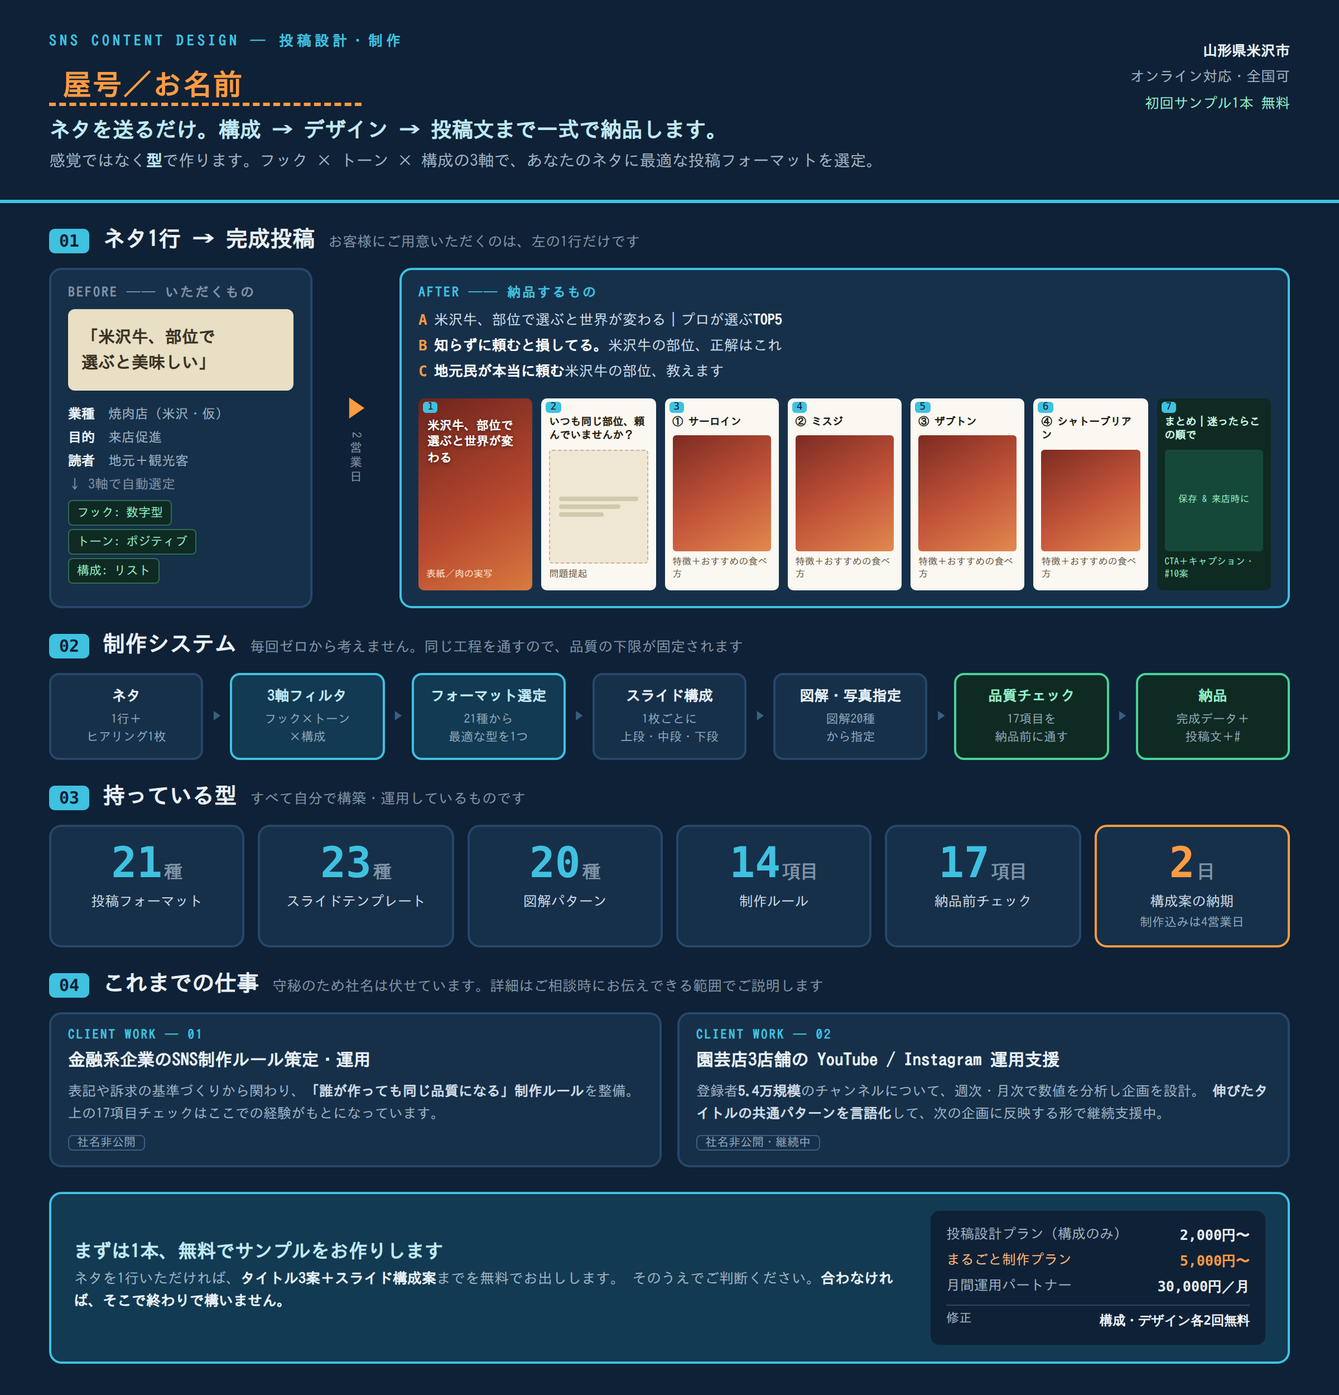
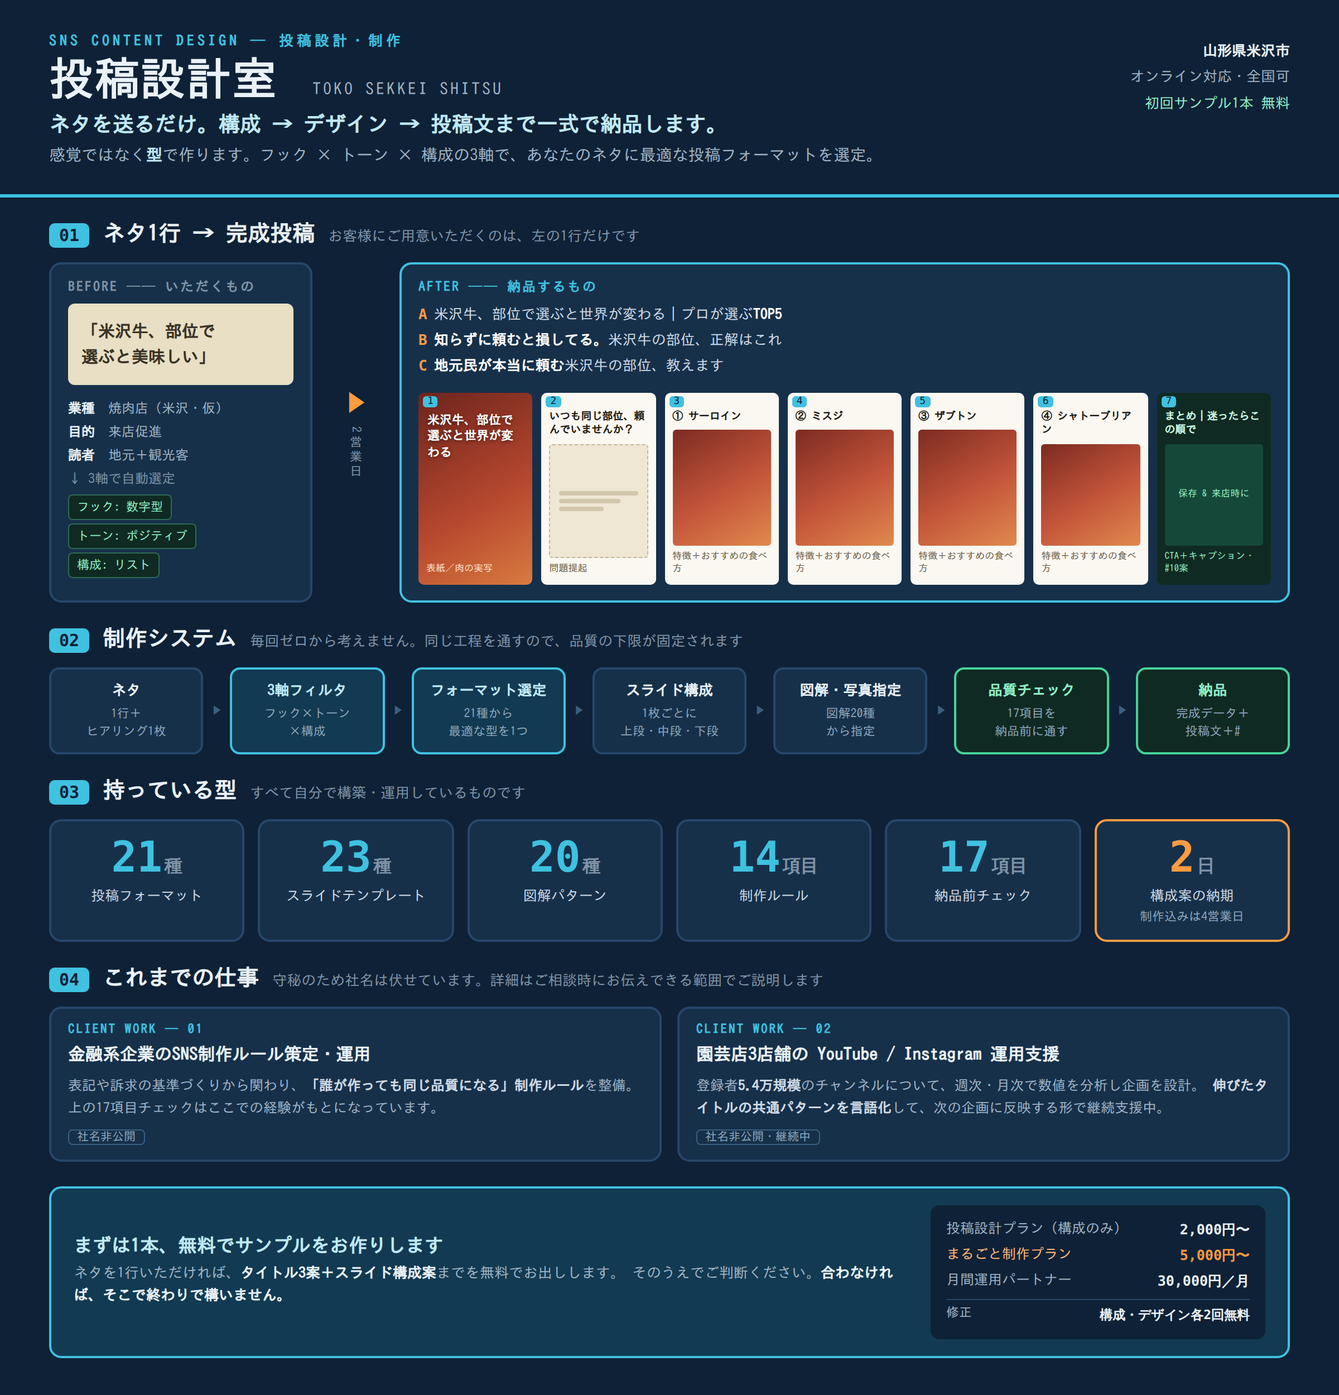
Day 34 レッスン: 屋号「投稿設計室」でポートフォリオ確定、ココナラ出品画像を書き出し
Claude-Session: https://claude.ai/code/session_014hr1ioYQ7JpKWtpWRvp1iW

diff --git a/docs/lessons/day34-出品まで残り1歩.html b/docs/lessons/day34-出品まで残り1歩.html
@@ -1,0 +1,50 @@
+<!doctype html><html lang="ja"><head><meta charset="utf-8">
+<style>
+:root{--bg:#f5f7fb;--panel:#fff;--line:#d7dee9;--navy:#14213d;--blue:#1f5fbf;--gold:#c9a227}
+*{box-sizing:border-box}body{margin:0;background:var(--bg);font-family:"IPAGothic","Noto Sans CJK JP",sans-serif;color:var(--navy);width:1280px;height:920px;padding:44px 56px}
+h1{font-size:34px;margin:0 0 6px}.sub{font-size:18px;color:#4a5670;margin-bottom:28px}
+.flow{display:flex;align-items:stretch;gap:0;margin-bottom:30px}
+.st{flex:1;background:var(--panel);border:3px solid var(--blue);border-radius:12px;padding:14px 10px;text-align:center;position:relative}
+.st .k{font-size:18px;font-weight:bold;line-height:1.3}.st .v{font-size:14px;color:#4a5670;margin-top:6px;line-height:1.4}
+.st .ok{position:absolute;top:-16px;right:-6px;background:var(--blue);color:#fff;font-size:14px;font-weight:bold;border-radius:20px;padding:3px 10px}
+.st.done .ok{background:var(--blue)}
+.st.today{border-color:var(--gold);background:#fffbe8}.st.today .ok{background:var(--gold)}
+.st.you{border-color:var(--navy);border-style:dashed;background:var(--bg)}.st.you .ok{background:var(--navy)}
+.ar{flex:0 0 26px;display:flex;align-items:center;justify-content:center;color:#9aa8bf;font-size:20px}
+.row{display:flex;gap:24px}
+.card{flex:1;background:var(--panel);border:2px solid var(--line);border-radius:14px;padding:22px 26px}
+.card h2{font-size:22px;margin:0 0 10px;padding-bottom:8px;border-bottom:3px solid var(--blue)}
+.card.g h2{border-color:var(--gold)}.card.n h2{border-color:var(--navy)}
+.card p,.card li{font-size:18px;line-height:1.55;margin:4px 0}.card ul{margin:6px 0 0 20px;padding:0}
+.big{font-size:26px;font-weight:bold;color:var(--blue)}
+.foot{margin-top:26px;background:var(--navy);color:#fff;border-radius:12px;padding:16px 24px;font-size:22px;font-weight:bold;text-align:center}
+.foot span{color:var(--gold)}
+</style></head><body>
+<h1>Day 34　受注パイプライン 8工程、残りは「貼る」の1歩だけ</h1>
+<div class="sub">Day 30 で「6/7 完成」だった棚。屋号が決まったので今日 7/8 まで進めた。残る 1 つは、私には押せない。</div>
+<div class="flow">
+  <div class="st done"><div class="ok">済</div><div class="k">出品文<br>価格設計</div><div class="v">§2・§1<br>数字を実測値に修正</div></div><div class="ar">▶</div>
+  <div class="st done"><div class="ok">済</div><div class="k">営業DM<br>お礼文</div><div class="v">§5・§6</div></div><div class="ar">▶</div>
+  <div class="st done"><div class="ok">済</div><div class="k">ヒアリング<br>フォーム</div><div class="v">1枚</div></div><div class="ar">▶</div>
+  <div class="st done"><div class="ok">済</div><div class="k">構成案<br>納品書</div><div class="v">テンプレ</div></div><div class="ar">▶</div>
+  <div class="st done"><div class="ok">Day 31</div><div class="k">ポートフォリオ</div><div class="v">既存素材だけで<br>1枚</div></div><div class="ar">▶</div>
+  <div class="st today"><div class="ok">今日</div><div class="k">屋号<br>「投稿設計室」</div><div class="v">A案で確定<br>橙の点線を消した</div></div><div class="ar">▶</div>
+  <div class="st today"><div class="ok">今日</div><div class="k">出品用画像</div><div class="v">1220×1240<br>ココナラ規格で書き出し</div></div><div class="ar">▶</div>
+  <div class="st you"><div class="ok">あなた</div><div class="k">出品画面に<br>貼る</div><div class="v">画像1枚＋文章コピペ<br>所要 5分</div></div>
+</div>
+<div class="row">
+  <div class="card n"><h2>データが言うこと</h2>
+    <p>28日止まっていたのは「屋号を決める」1問。返事が無ければAと決めてあったので、今日は<b>決めずに進んだ</b>。</p>
+    <p class="big">残った1歩は、制作でも判断でもなく「貼る」。</p>
+    <p>ここだけは Day 26 の「人間にしかできない工程」。私は画面を持っていない。</p></div>
+  <div class="card"><h2>その場で処理したこと</h2>
+    <ul><li>portfolio.html の橙の点線 →「投稿設計室」で再レンダリング</li>
+      <li>ココナラ出品画像を規格サイズで新規書き出し（素材は全部流用）</li>
+      <li>出品文の過少申告を修正: 16項目→17 ／ 20種→21</li></ul></div>
+  <div class="card g"><h2>今日の2択</h2>
+    <p><b>A.</b> 今日中に貼る（ココナラ→出品する→画像と§2をコピペ→「下書き保存」でもOK）</p>
+    <p><b>B.</b> 貼る前に私が「投稿設計室」の商標・ココナラ内・SNS ID の3チェックを済ませてから（明日）</p>
+    <p>返事が無ければ明日は <b>B</b> を済ませて、また同じ1歩を出す。</p></div>
+</div>
+<div class="foot">7/8 まで来た。最後の <span>1歩は5分</span>。完成度で止めない＝下書き保存も出荷の一歩。</div>
+</body></html>

diff --git a/business/sales/coconala-service-image.html b/business/sales/coconala-service-image.html
@@ -1,0 +1,59 @@
+<!doctype html>
+<html lang="ja"><head><meta charset="utf-8">
+<style>
+  * { margin:0; padding:0; box-sizing:border-box; }
+  html,body { width:1220px; height:1240px; }
+  body { font-family:'IPAGothic',sans-serif; background:#0f2136; color:#eaf2f8; position:relative; overflow:hidden; }
+  .band { position:absolute; left:0; right:0; top:0; height:14px; background:#3fc1e0; }
+  .wrap { padding:70px 70px 0; }
+  .who { font-size:24px; color:#3fc1e0; letter-spacing:6px; font-weight:bold; }
+  .nm { font-size:64px; font-weight:bold; margin-top:12px; letter-spacing:2px; }
+  .nm small { font-size:22px; color:#9fb3c4; font-weight:normal; letter-spacing:3px; margin-left:16px; }
+  .copy { margin-top:54px; font-size:78px; font-weight:bold; line-height:1.2; }
+  .copy .o { color:#ff9b42; }
+  .sub { margin-top:26px; font-size:36px; color:#bfe9f5; font-weight:bold; line-height:1.4; }
+  .chips { margin-top:38px; display:flex; gap:16px; }
+  .chip { background:#16304a; border:3px solid #3fc1e0; border-radius:12px; padding:14px 26px; font-size:28px; font-weight:bold; color:#bfe9f5; }
+  .chip b { color:#fff; }
+  .slides { position:absolute; left:70px; right:70px; bottom:210px; display:flex; gap:14px; }
+  .sl { flex:1; height:200px; border-radius:10px; background:#fbf8f2; position:relative; overflow:hidden; display:flex; flex-direction:column; }
+  .sl .num { position:absolute; left:8px; top:8px; font-size:16px; font-family:monospace; color:#0f2136; background:#3fc1e0; border-radius:5px; padding:1px 8px; }
+  .sl .top { padding:38px 12px 8px; font-size:17px; font-weight:bold; color:#241d12; line-height:1.35; }
+  .sl .mid { flex:1; margin:0 12px 12px; border-radius:6px; }
+  .cov { background:linear-gradient(150deg,#6e241d,#b8492f 60%,#d97b40); }
+  .cov .top { color:#fff; font-size:20px; text-shadow:0 1px 3px rgba(0,0,0,.5); }
+  .ph1 { background:linear-gradient(150deg,#7d2b22,#c4553a 55%,#e08a4e); }
+  .ph2 { background:#efe6d4; border:2px dashed #c3b697; }
+  .cta { background:#0f2a22; } .cta .top { color:#c9f7e4; } .cta .mid { background:#16483a; }
+  .ft { position:absolute; left:0; right:0; bottom:0; height:170px; background:#123a52; border-top:4px solid #3fc1e0;
+        display:flex; align-items:center; justify-content:space-between; padding:0 70px; }
+  .ft .l { font-size:38px; font-weight:bold; color:#8ff0c8; }
+  .ft .l small { display:block; font-size:22px; color:#9fb3c4; font-weight:normal; margin-top:8px; }
+  .ft .r { text-align:right; font-size:24px; color:#9fb3c4; line-height:1.6; }
+  .ft .r b { color:#ff9b42; font-size:40px; font-family:monospace; }
+</style></head>
+<body>
+  <div class="band"></div>
+  <div class="wrap">
+    <div class="who">SNS CONTENT DESIGN</div>
+    <div class="nm">投稿設計室<small>山形・米沢｜全国対応</small></div>
+    <div class="copy">ネタを送るだけ。<br><span class="o">保存される投稿</span>を一式納品</div>
+    <div class="sub">構成 → デザイン → 投稿文＋#まで。<br>感覚ではなく「型」で作ります</div>
+    <div class="chips">
+      <div class="chip">フォーマット <b>21種</b></div>
+      <div class="chip">制作ルール <b>14項目</b></div>
+      <div class="chip">納品前チェック <b>17項目</b></div>
+    </div>
+  </div>
+  <div class="slides">
+    <div class="sl cov"><div class="num">1</div><div class="top">米沢牛、部位で選ぶと世界が変わる</div><div class="mid"></div></div>
+    <div class="sl"><div class="num">2</div><div class="top">いつも同じ部位、頼んでいませんか？</div><div class="mid ph2"></div></div>
+    <div class="sl"><div class="num">3</div><div class="top">① サーロイン</div><div class="mid ph1"></div></div>
+    <div class="sl"><div class="num">4</div><div class="top">② ミスジ</div><div class="mid ph1"></div></div>
+    <div class="sl cta"><div class="num">7</div><div class="top">まとめ｜迷ったらこの順で</div><div class="mid"></div></div>
+  </div>
+  <div class="ft">
+    <div class="l">初回サンプル1本 無料<small>タイトル3案＋構成案まで。合わなければそこで終わりでOK</small></div>
+    <div class="r">構成のみ <b>2,000</b>円〜<br>まるごと制作 <b>5,000</b>円〜</div>
+  </div>
+</body></html>

diff --git a/business/sales/portfolio.html b/business/sales/portfolio.html
@@ -118,7 +118,7 @@
 
   <div class="hd">
     <div class="who">SNS CONTENT DESIGN ─ 投稿設計・制作</div>
-    <div class="nm"><span class="ph">屋号／お名前</span></div>
+    <div class="nm">投稿設計室 <span style="font-size:15px;color:#9fb3c4;font-weight:normal;letter-spacing:2px;margin-left:10px">TOKO SEKKEI SHITSU</span></div>
     <div class="tag">ネタを送るだけ。構成 → デザイン → 投稿文まで一式で納品します。</div>
     <div class="sub2">感覚ではなく<b style="color:#bfe9f5">型</b>で作ります。フック × トーン × 構成の3軸で、あなたのネタに最適な投稿フォーマットを選定。</div>
     <div class="loc"><div class="l1">

diff --git a/brain/learning/progress.md b/brain/learning/progress.md
@@ -3,9 +3,9 @@
 `/lesson` が毎回このファイルを読んで「今日の1テーマ」を決め、終わったら更新する。
 
 ## 🔥 ストリーク
-- 連続学習日数: 32日で一度途切れ（8/14〜9/9 は配信側の停止＝Routine一時停止。本人の離脱ではない）→ **9/10 から再スタート（連続 1日目）**
-- 最終学習日: 2026-09-10（Day 33）※日付はJST基準
-- 累計テーマ数: 33（Day 24以降は**実戦編**＝新テーマでなく自分の実データを教材にする形）
+- 連続学習日数: 32日で一度途切れ（8/14〜9/9 は配信側の停止＝Routine一時停止。本人の離脱ではない）→ **9/10 から再スタート**。9/11〜9/13 は Routine の疎通・再建作業のため未配信（配信側の都合、本人の離脱ではない）→ **9/14 Day 34 で再開（連続 1日目）**
+- 最終学習日: 2026-09-14（Day 34）※日付はJST基準
+- 累計テーマ数: 34（Day 24以降は**実戦編**＝新テーマでなく自分の実データを教材にする形）
 - 🏁 **カリキュラム完走（L1〜L5 一周）**。L2修了(Day7) → L3修了(Day12) → L4修了(Day19) → L5修了(Day23)
 - 📌 残った唯一の課題は**出荷経験ゼロ**（技術ではなく行動の壁）。以後は「知る」より「出す」に比重を移す
 - 🔧 **Day 29でレッスンの形式を変更**（28日の実データに基づく）:
@@ -77,25 +77,27 @@ L1は既知が多いので確認クイズ中心で高速通過。
 - Day 32: 実戦編#9 **名前は1つしか約束できない**（屋号を3案。ただし**「良し悪し」ではなく「約束する軸」で3つに振った**＝①機能を約束「**投稿設計室**」②結果を約束「**のこる工房**」③物語を約束「**なせば成る舎**」[上杉鷹山＝米沢]。屋号に詰め込めるのは実質1つで、3つ全部入れるとどれも伝わらない。**4指標で採点**＝ココナラ検索/地元DM/記憶に残る/歴史chと接続 → A は検索◎だが記憶✕、C は地元DM◎＋歴史ch◎だが検索✕。**決め手は「最初の1件はどこから来るか」の1問だけ**で、営業キット§7の7日間計画では**出品が3日目・DMが5日目＝先に来るのはココナラ**→その線ならA。**その場で処理したこと＝3案をポートフォリオのヘッダーに実際に流し込んでプレビュー化**[名乗り例つき]。**調査の限界を明示**＝Web検索は米国インデックス経由なので日本の個人事業主の屋号はほぼ載らず「無かった」ではなく「見つからなかった」だけ。決定後にJ-PlatPat商標検索／ココナラ内検索／SNSのID空き確認の3つが要る）
 
 - Day 33: 実戦編#10 **空白の28日は意志でなく設計の停止**（8/13 に屋号3案を出した日に本人が旧Routineを一時停止＝催促が止まった日と決定が止まった日が同一。Day 24「意志でなく設計」／Day 25「向こうから来る」を、止めた側から再証明。**その場で処理**＝毎日レッスンを**毎回新規セッション**の Routine `trig_01HvHD7asefL52fHhyrAV2w4`（07:30 JST）として再建し、9/8以降に入ったMTG 4件を赤に。2択＝**A. 屋号「投稿設計室」で確定→出品** ／ **B. 屋号保留・本名でポートフォリオ確定→出品**。返事が無ければ Day 34 は A）
+- Day 34: 実戦編#11 **受注パイプライン、残りは「貼る」の1歩だけ**（Day 33 の2択に返事が無かったので宣言どおり **A＝屋号「投稿設計室」で確定**。決めずに進んだ＝「返事が無ければAで進める」という設計が初めて実働した日。**その場で処理**＝①`business/sales/portfolio.html` の橙の点線を「投稿設計室」に置き換えて再レンダリング（`portfolio.png` 1200×1250）②ココナラ出品用画像を規格 **1220×1240** で新規書き出し（`coconala-service-image.png`。素材は全部ポートフォリオから流用、新規制作ゼロ）③営業キット§2 出品文の過少申告を実測値に修正（16項目→17／20種→21）。Day 30 の「6/7 完成」は今日 **7/8** になり、**残る1つ＝ココナラの出品画面に画像1枚と§2の文章を貼る**だけ。これは Day 26 の「人間にしかできない工程」で、Claude には画面が無い。2択＝**A. 今日中に貼る（下書き保存でもOK）／B. 貼る前に「投稿設計室」の商標・ココナラ内・SNS ID の3チェックを先に済ませる（明日）**。返事が無ければ Day 35 は B を済ませて、また同じ1歩を出す）
 
 ## 📌 次回やるテーマ
-- Day 34: **Day 33 の2択の結果でポートフォリオを確定 → ココナラ出品の画面に載せるところまで**。
-  A なら `business/sales/portfolio.html` の橙の点線に「投稿設計室」を入れて再レンダリング、出品用ヘッダー画像サイズでも出す。
-  B なら本名で同じことをする。**どちらでも「出品画面に貼る」まで進める**（ここが28日止まっていた1歩）
+- Day 35: **Day 34 の2択の結果を確認 → 未回答なら B＝「投稿設計室」の3チェック（J-PlatPat 商標／ココナラ内検索／SNS ID 空き）をその場で済ませて結果を1枚にし、もう一度「貼る」の1歩を出す**。
+  貼った報告があれば、ship-log に**初出荷**を記録し、次は営業キット§7 の5日目「地元DM 1通」を同じ方式（既存素材で本文を確定→送るだけ）にする
 
 ## 📝 昨日の宿題（翌日チェック用）
 - Day 31で出した選択（A/B）には直接の返答なし。代わりに**「週次ショート動画を止める」という依頼**が来て完了
   → **本人発の依頼は 5/5 で100%継続**（Day 29の発見が3日連続で再現している）
 - Day 32で出した選択（A/B/C）は28日間返答なし。ただし**その間レッスン自体が届いていない**ので未回答と扱わない
-- Day 33で出した選択: **A. 投稿設計室で確定→出品** / **B. 本名で確定→出品**（返事が無ければ A）
-- ship-log の次の1つは据え置き: **「屋号を決めたら、portfolio.html の橙の点線部分に打ち込んで書き出す」**
+- Day 33で出した選択（A/B）: 返答なし → **Day 34 で A を実行済み**（屋号「投稿設計室」で確定）
+- Day 34で出した選択: **A. 今日中にココナラ出品画面に貼る（下書き保存可）** / **B. 3チェックを先に済ませる**（返事が無ければ B）
+- ship-log の次の1つ: **「ココナラの出品画面を開いたら、coconala-service-image.png と §2 の文章を貼って下書き保存する」**（前の1つ「橙の点線に打ち込む」は Day 34 で完了）
 - 完了: 禁書系3件のRoutine停止（本人がタップ済み・9/10確認）／旧毎日レッスンの停止
 - 継続中の未実行: ウィークリーAIニュースの日本語版貼り替え（現在は一時停止中）／Express のリンクを GGG に送る（Day 27）／棚から1つ出す（Day 26）
 
 ## 🎣 明日の予告（前回セット）
-- Day 33 の2択（A/B）の結果でポートフォリオを確定し、ココナラ出品画面に貼るところまで進む
+- Day 34 の2択（貼る／3チェック先）の結果で進む。未回答なら3チェックをその場で済ませて、同じ1歩をもう一度出す
 
 ## ⚠ 運用メモ
+- 2026-09-14: 専用セッション版 Routine の初回レッスン（Day 34）を配信・push まで完走。9/12・9/13 分の Routine 通知は専用セッション側に溜まっていて 9/14 にまとめて届いた（3通）。同日分として1回だけ配信し、3日分を配信しない（積み上げは離脱要因）。**Routine が「届く」と「セッションが動く」は別**で、溜まった通知は次回起動時にまとめて処理される
 - 2026-09-11: **OmniRoute の受け口を実装完了**（`scripts/omniroute-setup.sh` + `docs/omniroute-setup.md` 全面改訂 + `recap-llm.mjs` の欠陥16件修正）。
   **最大の学び＝「README の要約」で書いた手順は3箇所間違っていた**。`OMNIROUTE_HOST`／`OMNIROUTE_PORT` は実在せず（正しくは `OMNIROUTE_SERVER_HOST` と `--port`）、
   疎通確認に使っていた `GET /v1/models` は鍵なしでもダミー鍵でも 401 になる。**npm パッケージを展開して中身を読み、実際に起動して初めて分かった**。

diff --git a/business/sales/sales-kit.md b/business/sales/sales-kit.md
@@ -56,9 +56,9 @@
 
 【私の強み】
 企業SNSの制作現場で使われる「制作ルール14項目」と
-「品質チェックリスト16項目」に基づき、感覚ではなく
+「品質チェックリスト17項目」に基づき、感覚ではなく
 型で作ります。フック（掴み）×トーン×構成の3軸で
-20種類の投稿フォーマットから、あなたのネタに最適な
+21種類の投稿フォーマットから、あなたのネタに最適な
 型を選定。AIも活用し、スピードと品質を両立します。
 
 【納品物】
@@ -88,13 +88,13 @@
 
 ```
 SNS投稿クリエイター｜山形・米沢在住
-企業SNSの制作現場で「投稿フォーマット20種×制作ルール14項目」の
+企業SNSの制作現場で「投稿フォーマット21種×制作ルール14項目」の
 制作システムを構築・運用。感覚ではなく“型”で、保存される
 フィード投稿を作ります。AI活用により通常の半分の納期で納品。
 まずはお気軽に「投稿1本」からお試しください。
 ```
 
-※実名/屋号、アイコン（顔 or ロゴ）、ヘッダー画像（制作実例のコラージュ）を設定すること。
+※屋号は「投稿設計室」で確定（2026-09-14・Day 34）。アイコン（顔 or ロゴ）、ヘッダー画像（制作実例のコラージュ）を設定すること。
 
 ---
 
@@ -103,7 +103,7 @@ SNS投稿クリエイター｜山形・米沢在住
 載せる順番:
 1. **Before/After**: 「ネタ1行」→「完成フィード10枚」の変換例（一番伝わる）
 2. **制作システム図**: ネタ→3軸フィルタ→フォーマット選定→構成→品質チェック→納品（先日の図解の流用でOK）
-3. **数字**: 「フォーマット20種／制作ルール14項目／品質チェック16項目／納期◯日」
+3. **数字**: 「フォーマット21種／制作ルール14項目／品質チェック17項目／構成案2日」
 4. **クライアントワーク実績**: 「金融系企業のSNS制作ルール策定・運用に従事」とだけ書く（※社名は出さない。契約上の確認が取れるまで匿名厳守）
 
 ---

diff --git a/brain/ship-log.md b/brain/ship-log.md
@@ -31,7 +31,7 @@
 
 | 日付 | 出したもの | どこに |
 |---|---|---|
-| — | まだなし | — |
+| — | まだなし（Day 34 時点: 出品素材は全部揃い、残りは出品画面に貼るだけ） | — |
 
 ## 📝 出せなかった週の記録（理由を残す）
 
